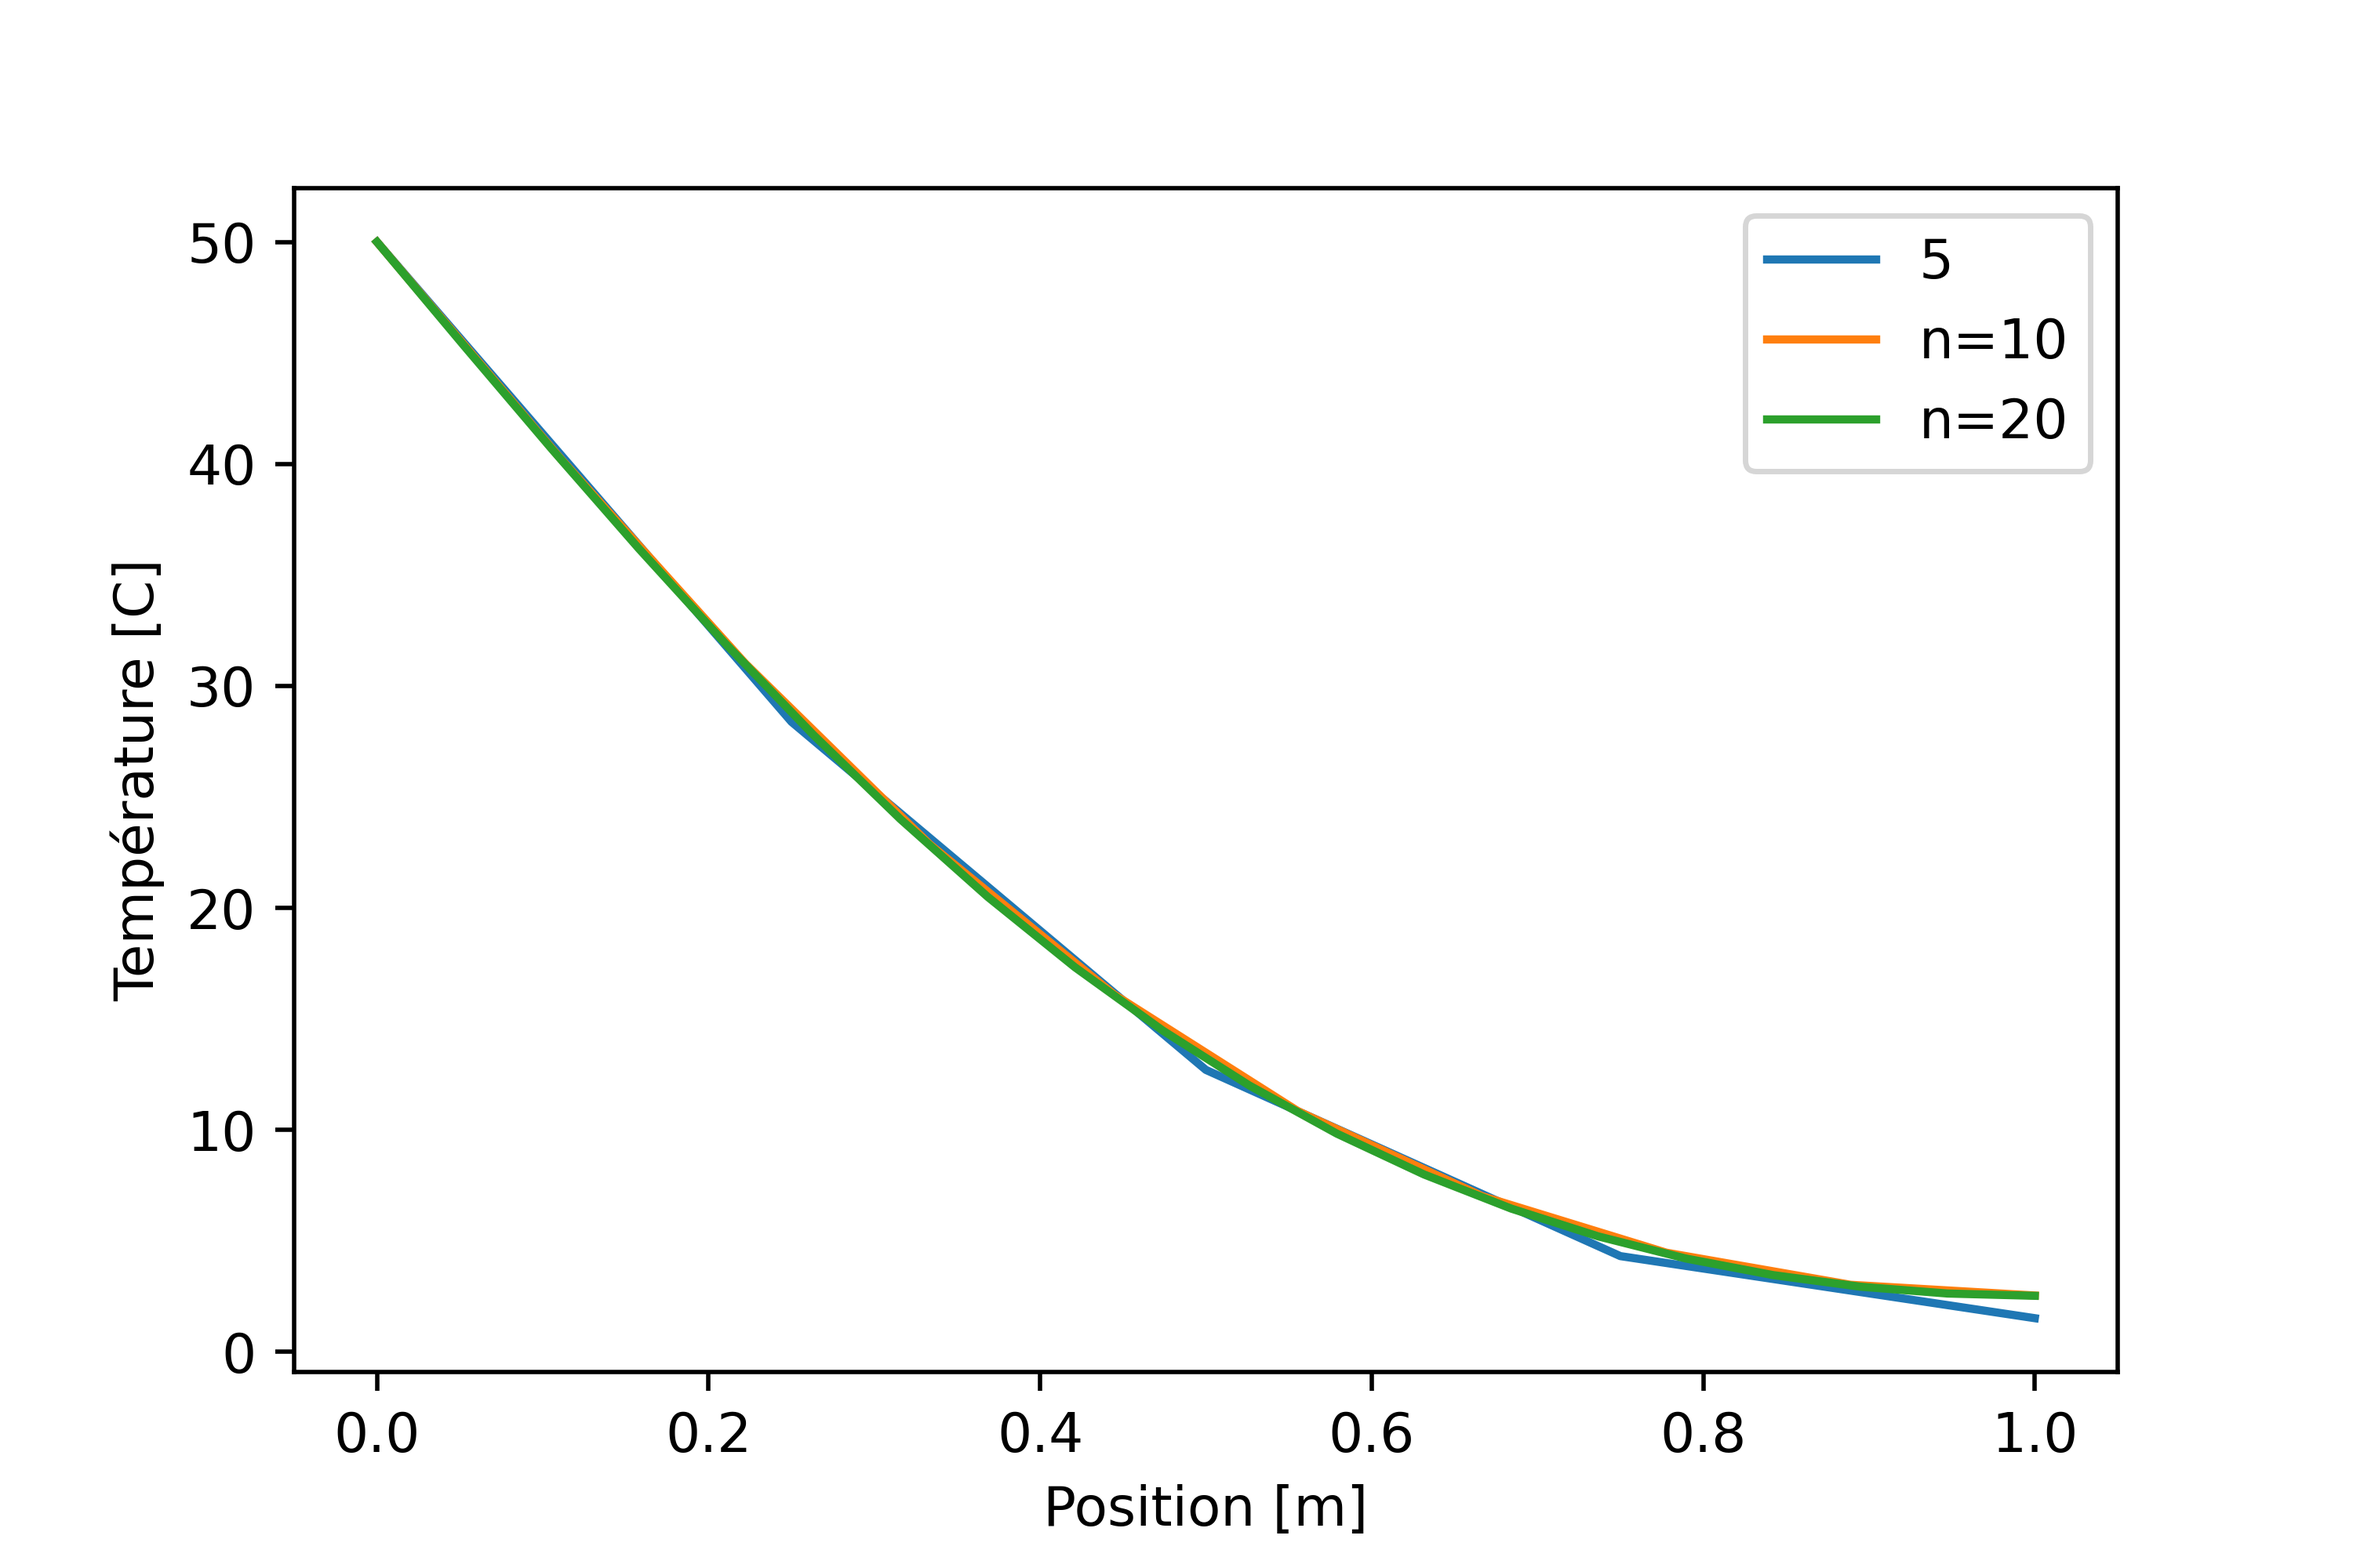
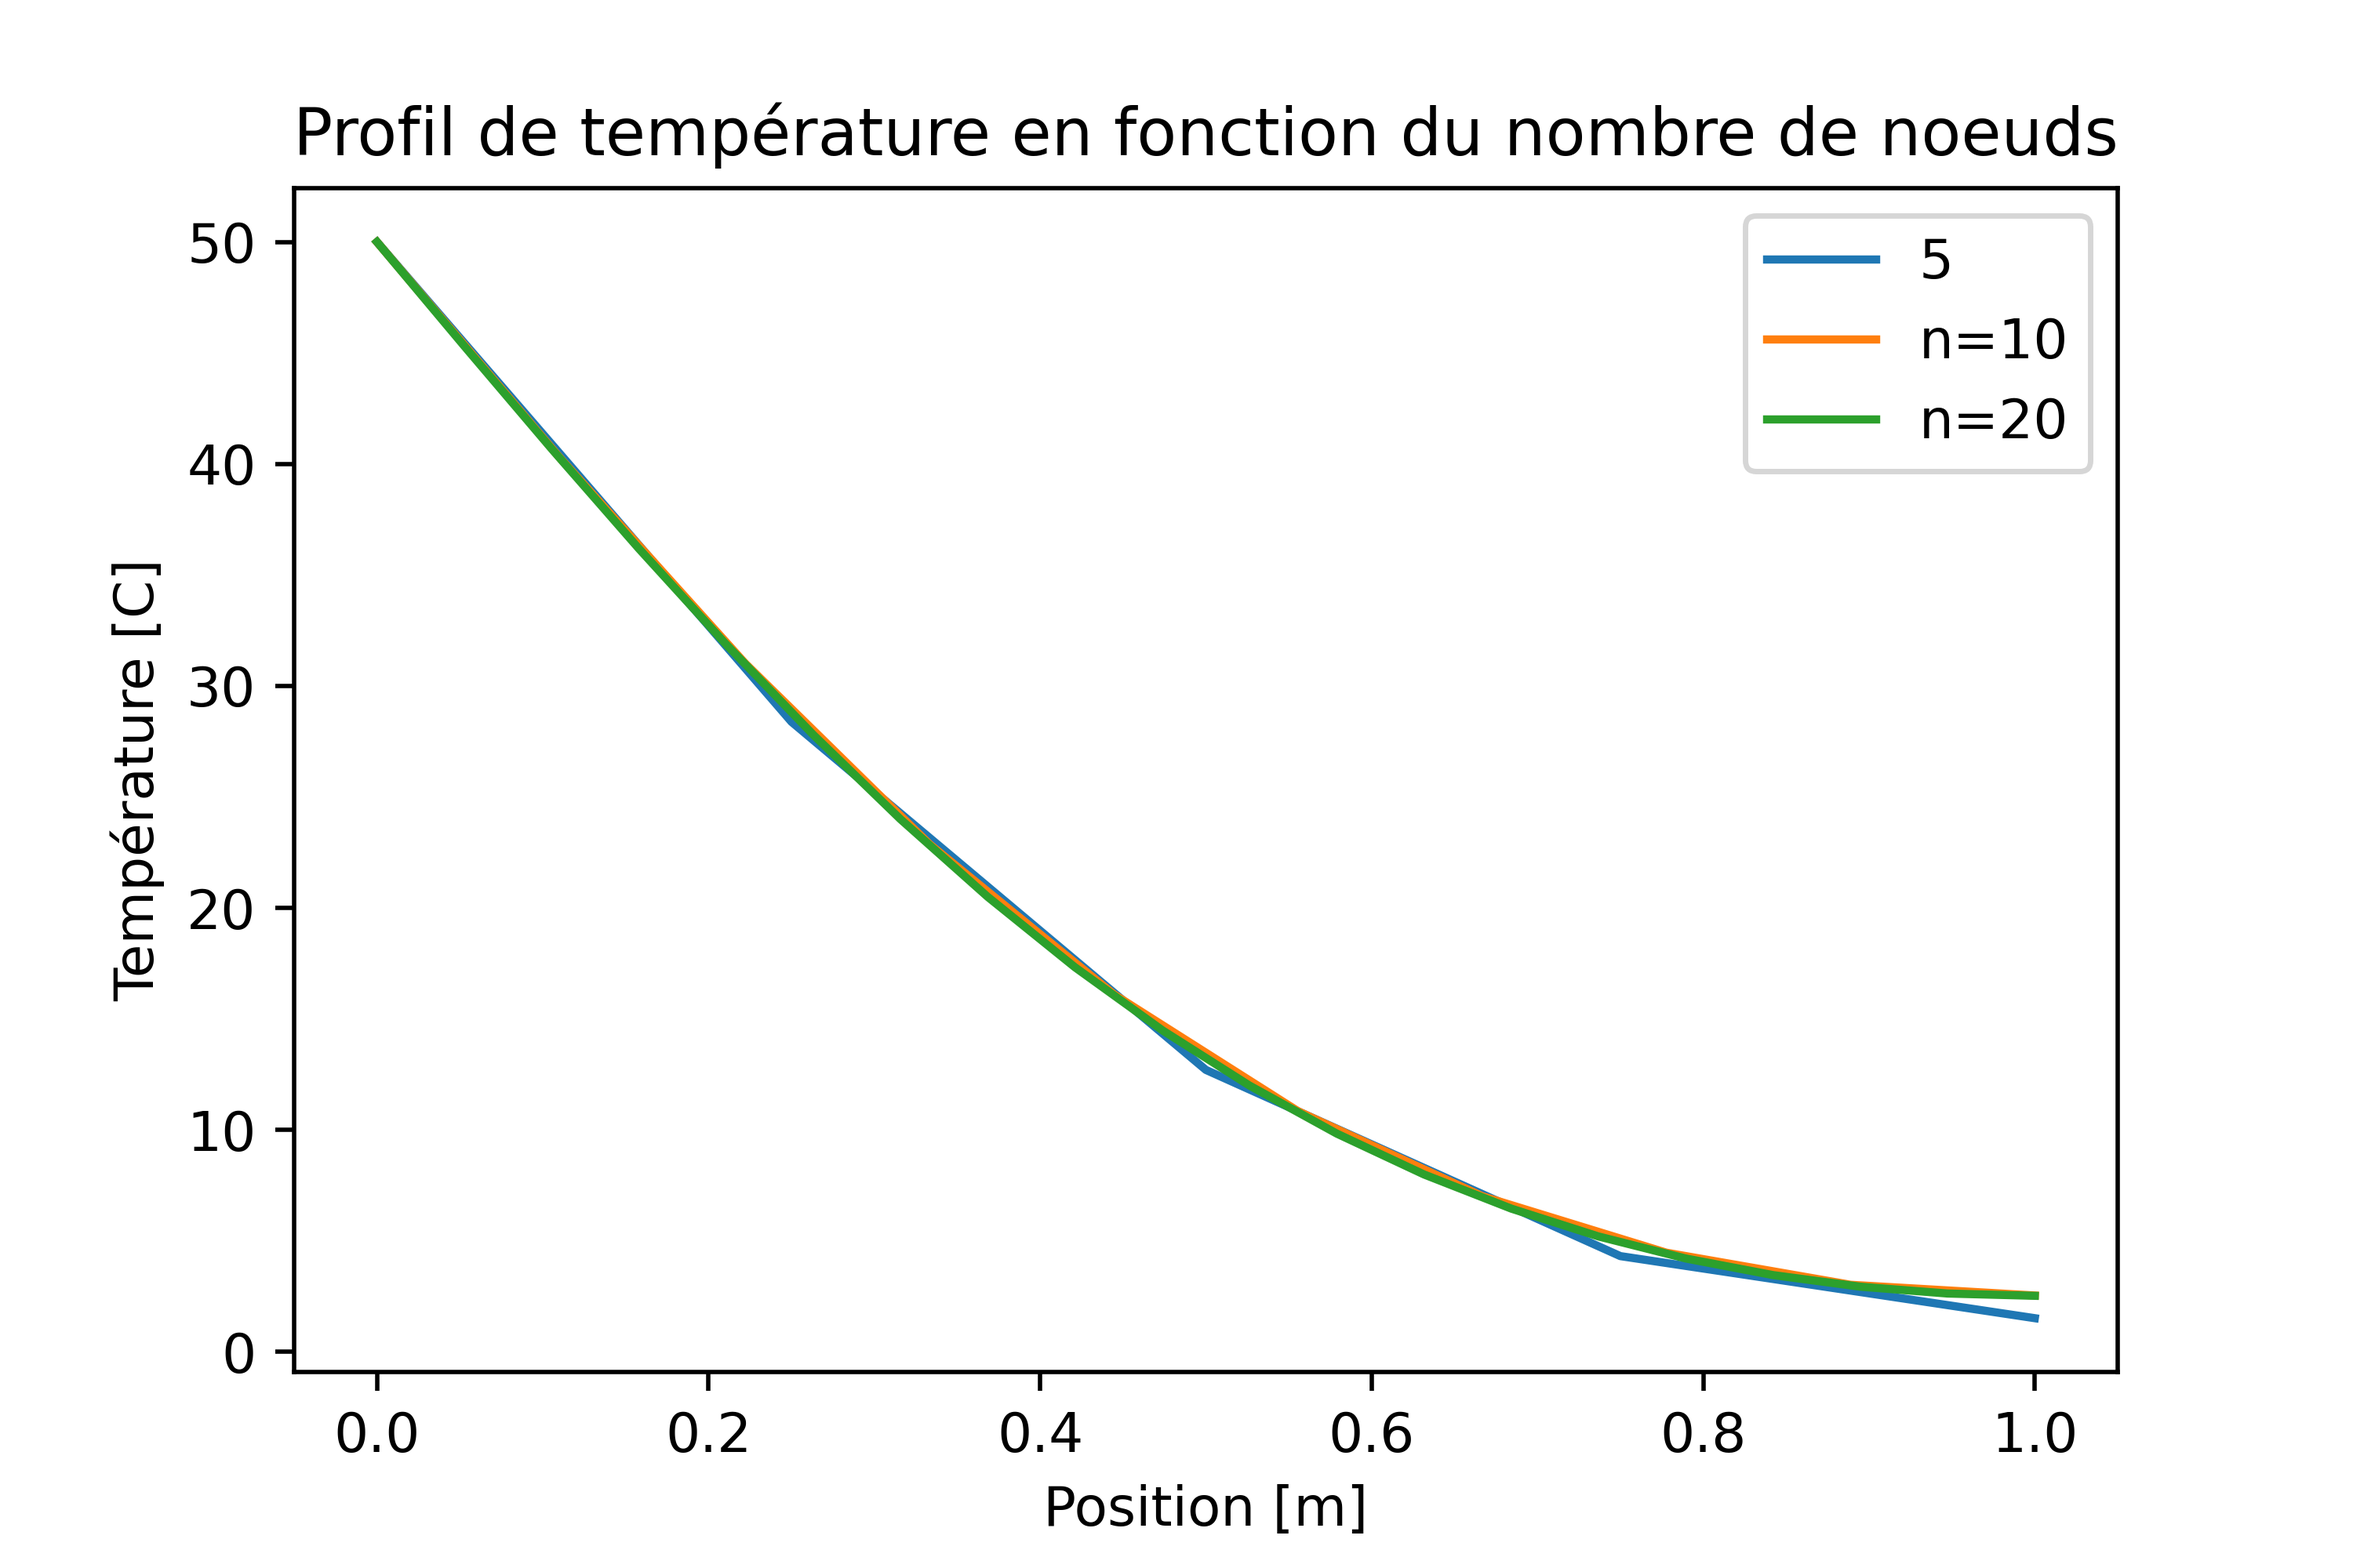
ménage code

Changed region(s): [[0.124, 0.062, 0.899, 0.124]]

diff --git a/Fichier_vérification.py b/Fichier_vérification.py
@@ -10,7 +10,62 @@ from CI import *
 from Euler_explicite import *
 from Euler_implicite import *
 
+###Vérification que les droites et la fonction quadratique passent bien par les points expériementaux
+class parametres4():
+    
+    Cp = 1150           # Capacité thermique massique [J/(kg*K)]
+    k = 1.9             # Conductivité thermique [W/(m*K)]
+    n = 9               # Nombre de noeuds
+    rho = 1.07*10**3   # Masse volumique [kg/(m^3)]
+    h = 10              # Coefficient de convection [W/(m^2*K)]
+    H = 0.045           # Hauteur de la pâte [m]
+    dz = H/(n-1)        # Discrétisation de l'espace [m]
+    ti=60               # Temps initial [s]
+    tf=180              # Temps final [s]
+    dt = 0.1            # Discrétisation du temps [s]
+    Tair= 22            # Température de l'air ambient [C]
 
+prm4 = parametres4()
+
+###Condition initiale quadratique
+z=np.linspace(0,prm4.H,prm4.n)
+Ti=np.zeros(prm4.n)
+Ti[:]=27.92 - 240.89*z[:] + 2982.72*z[:]**2 
+plt.plot(z,Ti,label="CI")
+plt.axhline(27.92,color='k',linestyle='--')
+plt.axhline(24.01,color='r',linestyle='--')
+plt.axhline(23.12,color='y',linestyle='--')
+plt.axvline(0,color='k',linestyle='--')
+plt.axvline(0.0225,color='r',linestyle='--')
+plt.axvline(0.045,color='y',linestyle='--')
+plt.legend()
+plt.xlabel('Position (m)')
+plt.ylabel('Température')
+plt.title('Température à 1 minute en fonction de la hauteur')
+plt.savefig('CI', dpi=500)
+plt.show()
+
+###Condition frontière inférieure (linéaire)
+t=np.linspace(prm4.ti,prm4.tf,int((prm4.tf-prm4.ti)/prm4.dt+1))
+Tiinf=np.zeros(int((prm4.tf-prm4.ti)/prm4.dt+1))
+Tiinf[:]=0.03175*t[:] + 26.015 
+plt.plot(t,Tiinf,label="CFI")
+plt.axhline(27.92,color='k',linestyle='--')
+plt.axhline(31.73,color='r',linestyle='--')
+plt.axvline(60,color='k',linestyle='--')
+plt.axvline(180,color='r',linestyle='--')
+plt.legend()
+plt.xlabel('Temps (s)')
+plt.ylabel('Température')
+plt.title('Température à z=0 en fonction du temps')
+plt.savefig('CFI', dpi=500)
+
+
+
+###Vérification graphique avec une exemple de notes de cours.
+###Profil de température dans une tige 1D en régime transitoire.
+
+###Initialisation des paramètres 
 class parametres():
 
     Cp = 1.07*10**(-3)           # Capacité thermique massique [J/(kg*K)]
@@ -64,6 +119,7 @@ prm3 = parametres3()
 
 N=np.array([5, 10, 20])
 
+###Intialisation des conditions frontières
 T = np.zeros(prm.n)
 Tinf = np.zeros(int((prm.tf-prm.ti)/prm.dt+1))+50
 pos = np.linspace(0, prm.H, prm.n)
@@ -74,27 +130,24 @@ T3 = np.zeros(prm3.n)
 Tinf3 = np.zeros(int((prm3.tf-prm3.ti)/prm3.dt+1))+50
 pos3 = np.linspace(0, prm3.H, prm3.n)
 
+###Utilisation de nos fonctions pour faire le calcul
 mdfe = Euler_exp(T, Tinf, prm) 
 mdfe2 = Euler_exp(T2, Tinf2, prm2) 
 mdfe3 = Euler_exp(T3, Tinf3, prm3) 
 
+###Graphique pour les différents noeuds
+plt.show()
 plt.plot(pos, mdfe[-1, :], label='5') 
 plt.plot(pos2, mdfe2[-1, :], label='n=10') 
 plt.plot(pos3, mdfe3[-1, :], label='n=20')  
 plt.ylabel('Température [C]')
 plt.xlabel('Position [m]')
+plt.title('Profil de température en fonction du nombre de noeuds')
 plt.legend()
 plt.savefig('Verif_graphe', dpi=500)
 
 
-# for i in range(len(N)):
-#     setattr(prm, "n", N[i])
-#     print(prm.n)
-#     T = np.zeros(prm.n)
-#     Tinf = np.zeros(int((prm.tf-prm.ti)/prm.dt+1))+50
-#     pos = np.linspace(0, prm.H, prm.n)
-#     mdfe = Euler_exp(T, Tinf, prm)
-#     print(mdfe[-1, :])
-#     plt.plot(pos, mdfe[-1,:])
+
+
 
 

diff --git a/Euler_explicite.py b/Euler_explicite.py
@@ -58,8 +58,6 @@ def Euler_exp(T,Tinf,prm):
             T_tdt[i]=np.copy(T_t[i])+((dt*K)/(rho*Cp*dz**2))*(T_t[i+1]-2*T_t[i]+T_t[i-1])
         
         T_tdt[-1]=(1/(3+((2*dz*h)/K)))*(4*np.copy(T_tdt[n-2])-np.copy(T_tdt[n-3])+((2*h*dz)/K)*prm.Tair)
-        #T_tdt[-1]=(1/(h+((3*K)/(2*dz))))*((-K/(2*dz))*(-4*T_tdt[n-2]+T_tdt[n-3])+h*prm.Tair)
-        # T_tdt[-1]=(-K/(2*dz*h+3*K))*(-4*T_tdt[n-2]+T_tdt[n-3]+2*dz*h*prm.Tair)
         
         t=t+dt
         j=j+1
